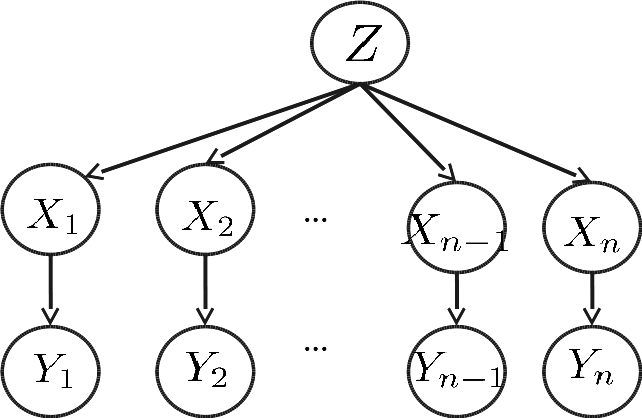
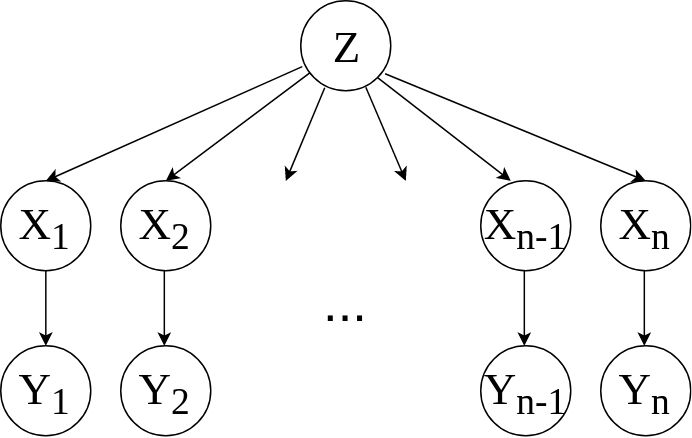
save

diff --git a/lecture6.md b/lecture6.md
@@ -8,17 +8,16 @@ Lecture 6: Probabilistic reasoning II
 
 # Today
 
-- *Exact inference*:
+- *Exact inference*
     - Inference by enumeration
     - Inference by variable elimination
     - Complexity of exact inference
-- *Approximate inference*:
+- *Bayesian networks with continuous variables*
+- *Approximate inference*
     - Stochastic simulation
     - Rejection sampling
     - Importance sampling
     - MCMC
-- *Probabilistic reasoning over time*:
-    - X, Y, Z
 
 ---
 
@@ -156,7 +155,7 @@ Idea:
 
 ---
 
-# Irrelevant variables
+# Relevance
 
 - Consider the query $P(JohnCalls|Burglar=true)$.
     - $P(J|b) = \alpha P(b) \sum_e P(e) \sum_a P(a|b,e) P(J|a) \sum_m P(m|a)$
@@ -168,7 +167,6 @@ Idea:
 
 # Elimination ordering
 
-XXX: redraw
 .center.width-50[![](figures/lec6/ve-ordering.png)]
 
 - Consider the query $P(X\_n|y\_1,...,y\_n)$.
@@ -177,6 +175,10 @@ XXX: redraw
     - $X\_1, ..., X\_{n-1}, Z$
 - What is the size of the maximum factor generated for each of the orderings?
 - Answer: $2^{n+1}$ vs. $2^2$ (assuming boolean values)
+
+???
+
+R: prepare that
 
 ---
 
@@ -188,9 +190,118 @@ XXX: redraw
 
 ---
 
+class: smaller
+
 # Worst case complexity?
 
-XXX: reduction to 3SAT, hence NP-complete
+.center.width-70[![](figures/lec6/3sat.png)]
+
+3SAT is a special case of inference:
+- CSP: $(u\_1 \lor u\_2 \lor u\_3) \wedge (\lnot u\_1 \lor \lnot u\_2 \lor u\_3) \wedge (u\_2 \lor \lnot u\_3 \lor u\_4)$
+- $P(U\_i=0)=P(U\_i=1)=0.5$
+- $C\_1 = U\_1 \lor U\_2 \lor U\_3$; $C\_2 = \lnot U\_1 \lor \lnot  U\_2 \lor U\_3$; $C\_3 = U\_2 \lor \lnot  U\_3 \lor U\_4$
+- $D\_1 = C\_1$; $D\_2 = D\_1 \wedge C\_2$
+- $Y = D\_2 \wedge C\_3$
+
+If we can answer whether $P(Y=1)>0$, then we answer whether 3SAT has a solution.
+By reduction, inference in Bayesian networks is therefore **NP-hard**.
+- There is no known efficient probabilistic inference algorithm in general.
+
+---
+
+class: middle, center
+
+# Bayesian networks with continuous variables
+
+---
+
+# Continuous variables
+
+- For continuous variables, the probability distribution can be described by a probability **density** function.
+    - That is, the distribution is described by a *parameterized function* of its value:
+        - e.g., $P(X=x) = U\[18,26\](x)$ for a uniform density between $18$ and $26$.
+    - a density *integrates* to $1$ and is non-negative everywhere.
+- The absolute likelihood that a continuous variable $X$ takes value $x$ is $0$.
+  Rather, the density can be interpreted as providing a *relative* likelihood.
+- E.g., $P(X=20.5) = 0.125$ really means
+$$\lim_{dx \to 0} P(20.5 \leq X \leq 20.5+dx)/dx = 0.125$$
+
+.center.width-40[![](figures/lec5/uniform.png)]
+
+---
+
+# Gaussian distribution
+
+.center.width-60[![](figures/lec6/gaussian.png)]
+
+$$P(x)=\mathcal{N}(\mu,\sigma)(x)=\frac{1}{\sqrt{2\pi\sigma^2}} \exp(-\frac{(x-\mu)^2}{2\sigma^2})$$
+
+- $\mu$ and $\sigma$ are *parameters* of the distribution.
+- The *multivariate* Gaussian distribution generalizes to $n \geq 1$ random variables.
+
+---
+
+# Hybrid Bayesian networks
+
+.center.width-40[![](figures/lec6/continuous-net.png)]
+
+- What if we have both *discrete* (e.g., $\text{subsidy}$ and $\text{buys}$) and *continuous*
+variables (e.g., $\text{harvest}$ and $\text{cost}$) in a same network?
+- Options:
+    - *discretization*: transform continuous variables into discrete variables.
+        - issues: possibly large errors, large CPTs.
+    - define the conditional distribution with a **finitely parameterized** canonical distribution.
+        - e.g., assume it is a gaussian distribution.
+    - use a non-parametric representation.
+
+---
+
+# Continuous child variables
+
+- We need to specify a *conditional density* function for each continuous child variable
+given continuous parents, for each possible assignment to discrete parents.
+    - e.g., we need to specify both $P(c|h,s)$ and $P(c|h,\lnot s)$
+- Common choice: the **linear Gaussian model** (LG):
+    - $P(c|h,s) = \mathcal{N}(a\_th+b\_t, \sigma_t^2)(c)$
+    - $P(c|h,\lnot s) = \mathcal{N}(a\_tf+b\_f, \sigma_f^2)(c)$
+
+.center.width-90[![](figures/lec6/joint-density.png)]
+
+---
+
+# Conditional Gaussian network
+
+- The joint distribution of an all-continuous network with LG distributions
+is a multivariate Gaussian.
+- The joint distribution of a network with discrete+LG continuous variables is
+a **conditional Gaussian network**.
+    - i.e., a multivariate Gaussian over all continuous variables for each combination of the discrete variable values.
+
+---
+
+# Discrete child variables, with continuous parents
+
+- We need to specify a *conditional distribution* for each discrete child variable,
+given continuous parents.
+- It is often reasonable to assume that the probability values of the discrete outcomes are almost piece-wise constant but *vary smoothly in intermediate regions*.
+- E.g., $P(b|c)$ could be a "soft" threshold:
+
+.grid[
+.col-1-3[
+.center.width-50[![](figures/lec6/probit.png)]
+]
+.col-2-3[
+The **probit distribution** uses integral of Gaussian:
+- $\Phi(x) = \int\_{-\infty}^x \mathcal(N)(0,1)(x) dx$
+- $P(b|c) = \Phi((-c+\mu) / \sigma)$
+]
+]
+
+---
+
+# Inference
+
+- Inference in Hybrid Bayesian networks can be conducted similarly as in the discrete case, but replacing summations by integrations.
 
 ---
 
@@ -235,3 +346,9 @@ class: middle, center
 ---
 
 # Summary
+
+---
+
+# References
+
+- Cooper, Gregory F. "The computational complexity of probabilistic inference using Bayesian belief networks." Artificial intelligence 42.2-3 (1990): 393-405.

diff --git a/lecture5.md b/lecture5.md
@@ -146,23 +146,6 @@ class: middle, center
 
 ---
 
-# Probability for continuous variables
-
-.center.width-40[![](figures/lec5/uniform.png)]
-
-- For continuous variables, the probability distribution can be described by a *probability density function*.
-    - That is, the distribution is decribed by a *parameterized function of value*:
-        - e.g., $P(X=x) = U\[18,26\](x)$ for a uniform density between $18$ and $26$.
-    - a density *integrates* to $1$.
-- That is, $P(X=20.5) = 0.125$ really means
-$$\lim_{dx \to 0} P(20.5 \leq X \leq 20.5+dx)/dx = 0.125$$
-
-???
-
-R: explanation was not clear.
-
----
-
 # Probability distributions
 
 - Intuitively, one can think of the *probability distribution* of a random variable as a **table** that associates a probability value to each *outcome* of the variable.

diff --git a/lecture3.md b/lecture3.md
@@ -572,6 +572,10 @@ Oct 18, 2017 (**yersterday**): AlphaGo Zero combines *Monte Carlo tree search* a
     - See Chapters 16, 17 and 21 or INFO8003 Optimal decision making for complex problems.
     - What if the world is unknown?
 
+???
+
+R: Have an additional lecture before this one, on MDPs?
+
 ---
 
 # References

diff --git a/lecture4.md b/lecture4.md
@@ -4,6 +4,10 @@ class: middle, center, title-slide
 
 Lecture 4: Constraint satisfaction problems
 
+???
+
+R: Have an additional lecture before this one, on MDPs?
+
 ---
 
 # Today
